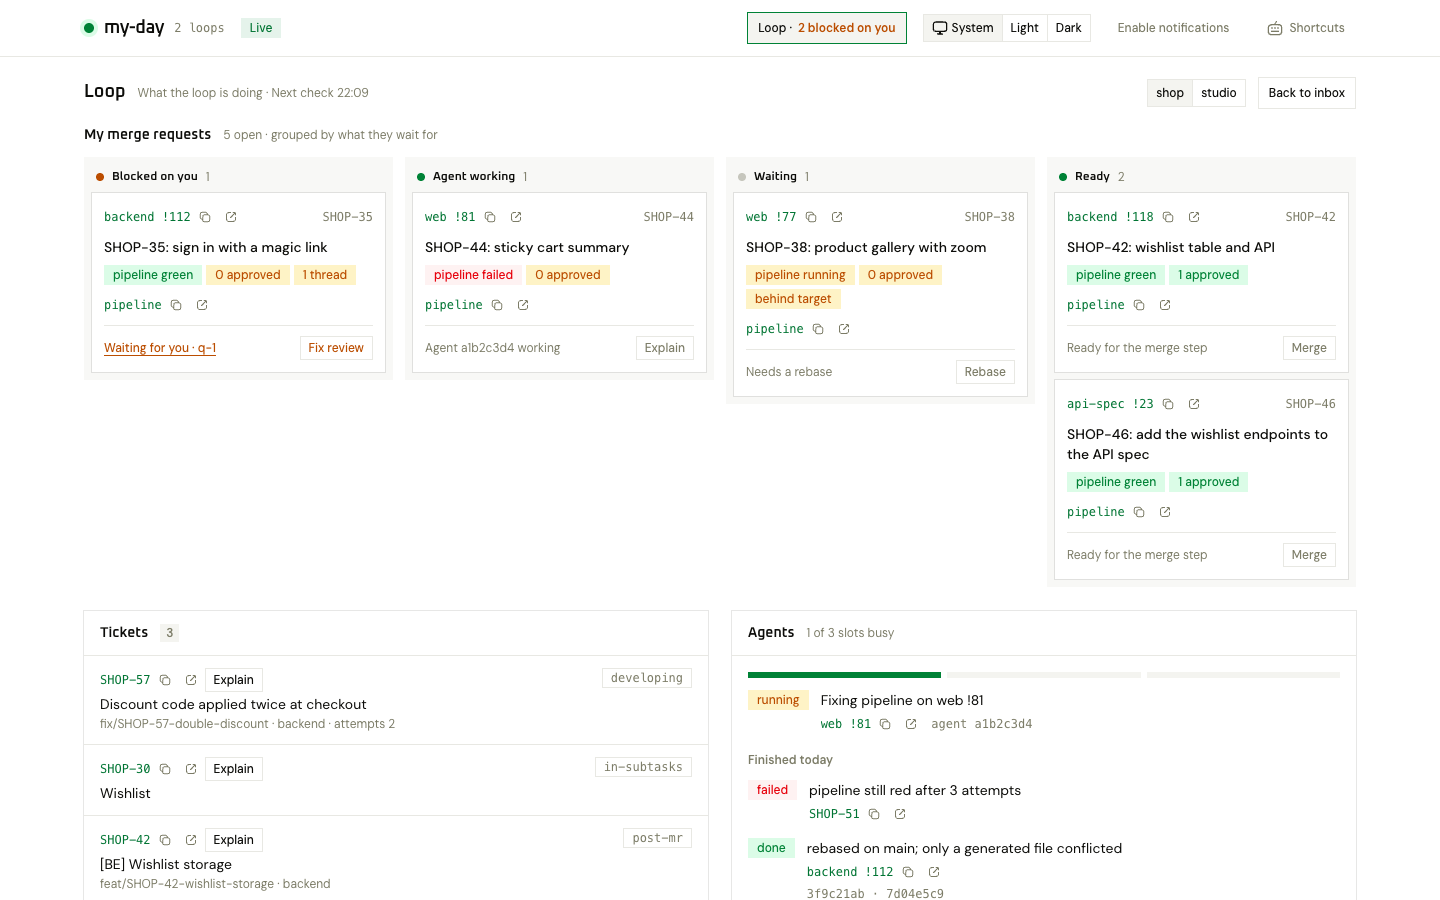
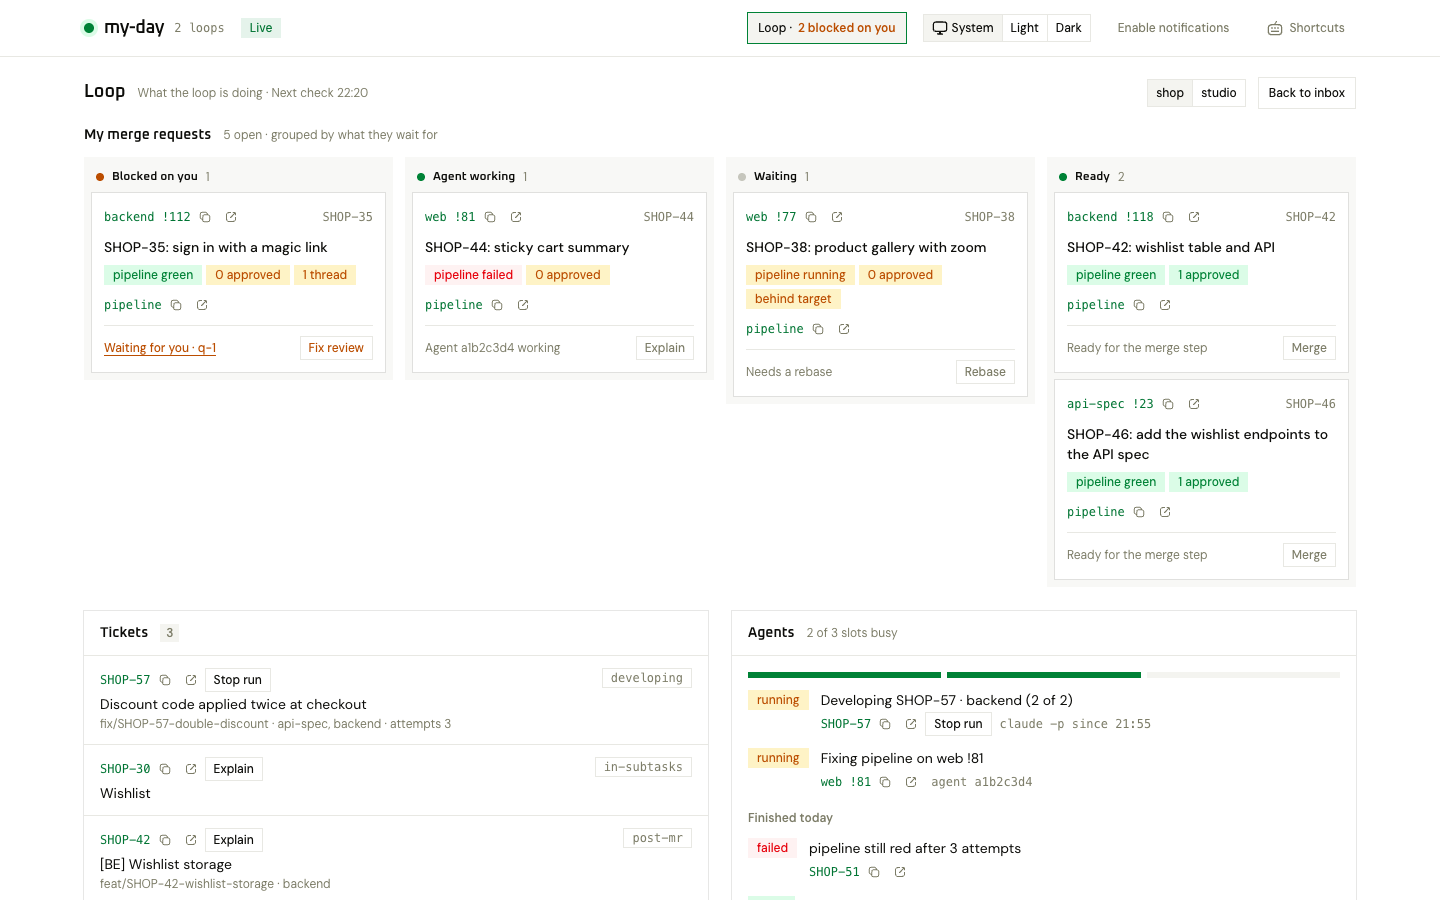
docs: claude -p runner and the dev-bundle profile; e2e run in the agents panel; 0.9.0

diff --git a/README.md b/README.md
@@ -127,6 +127,28 @@ files it writes. `LOOP.md`'s `## Files` section lists the files a workspace's lo
 a team-lead loop with weekly 1:1 prep, …) is a new template folder, not new code. Item types are
 free (`request`, `1on1`, …); `forge: none` turns off the code-host sync.
 
+| Profile | For |
+|---|---|
+| `dev` | Repos side by side under the workspace root; workers are subagents of the loop session |
+| `dev-bundle` | A **bundle repo** that gitignores several cloned repos inside it; every code step runs as `claude -p` in the repo's worktree (`runner: claude-p`) |
+
+### Workers as `claude -p`
+
+`runner: claude-p` in `LOOP.md` runs each worker as a separate, detached `claude -p` process started
+in the worktree of the repo it works on — so that repo's `CLAUDE.md`, tracked
+`.claude/settings.json`, skills and MCP servers apply, exactly as in a fresh session there. A ticket
+that touches several repos runs one process per repo in `DEVELOP.md`'s cross-repo order; each gets
+the earlier repos' results, and a failed or blocked repo stops the chain. Runs are tracked in
+`.my-day/runs/`, outlive the loop session and are collected by the next tick; the dashboard shows
+which repo a chain is in and offers **Stop run**. Settings: `permissionMode` (default `acceptEdits`;
+runs cannot answer prompts, so allow a repo's build and test commands in its
+`.claude/settings.json`), `runTimeoutMinutes` (90), `claudeBin`. The default `runner: agent` keeps
+subagents.
+
+Smoke test by hand (CI uses a fake `claude`): in a workspace with `runner: claude-p`, make a
+worktree, then `state.mjs run <item> --kind develop --task "add a line to README, local only" --chain <repo>=<worktree>`;
+`state.mjs runs` shows it running, and the next `tick` reports it under `runs.finished`.
+
 ## Configuration
 
 `.my-day/` in the workspace root. Every `X.md` is shared with the team (commit it); an
@@ -175,7 +197,7 @@ Add to `.gitignore`:
   from the header (with several loops shown: per loop, in the health strip). The loop view shows
   one loop at a time, with a switcher when several are shown.
 - Dashboard clicks reach the loop on its next `tick` (`fromDashboard`); the loop also runs
-  `state.mjs watch-dashboard` as a monitor, so a click wakes it within seconds.
+  `state.mjs watch` as a monitor, so a click (or a finished `claude -p` run) wakes it within seconds.
 
 ## How it works
 
@@ -186,10 +208,11 @@ CLI, `skills/loop/bin/state.mjs`, backed by SQLite in `.my-day/state.db`:
 |---|---|
 | `bootstrap` | Config check, DB, registers the loop in `~/.my-day`, one-time migration, shared dashboard server, orphaned agents |
 | `loops`, `stop` | The machine's loops (running / stopped); mark this loop stopped |
+| `run`, `runs`, `run-stop` | `claude -p` workers per repo (`runner: claude-p`): start a chain, list, stop |
 | `tick` | Code-host sync (MRs + review requests), merge-gate verdicts, schedule, compact to-do JSON |
 | `dispatch` / `reconcile` | Worker bookkeeping: attempts, links, new MRs, retry limit → escalation |
 | `dream-data` / `dream-done` | History bundle for a dream; record `lastDreamAt` |
-| `pause` / `resume`, `watch-dashboard` | Stop dispatching; stream dashboard clicks to the session |
+| `pause` / `resume`, `watch` | Stop dispatching; stream dashboard clicks and finished runs to the session |
 | `summary`, `show`, `list`, `ask`, `answer`, … | State queries and updates (`state.mjs help`) |
 
 `bin/forge.mjs` reads GitLab (`glab`) and GitHub (`gh`) with one output shape. The

diff --git a/AGENTS.md b/AGENTS.md
@@ -10,7 +10,9 @@ Notes for coding agents working on this repo. Read `README.md` first.
   `LOOP.md`'s `## Files` section is the manifest `config missing` checks.
 - `skills/loop/lib`: state DB, config, forge and helpers; `home.mjs` is the machine home
   (`~/.my-day`, `MY_DAY_HOME`): loop registry, liveness, migration. `skills/loop/server`: the one
-  dashboard server per machine, reading every registered loop's `state.db`.
+  dashboard server per machine, reading every registered loop's `state.db`. `runs.mjs` is the
+  `claude -p` runner (`runner: claude-p`): chain files in `.my-day/runs/`; its tests use
+  `test/fixtures/fake-claude.mjs` via `CLAUDE_BIN` — never start a real `claude` in tests.
 - `skills/loop/ui`: the dashboard UI (React + Vite + Tailwind v4 + shadcn/ui on Base UI), an npm
   workspace. `src/components/ui` is shadcn's (add with `pnpm dlx shadcn@latest add <name>` run in
   `skills/loop/ui`); app components compose them. `skills/loop/test`: `node --test` suites.
